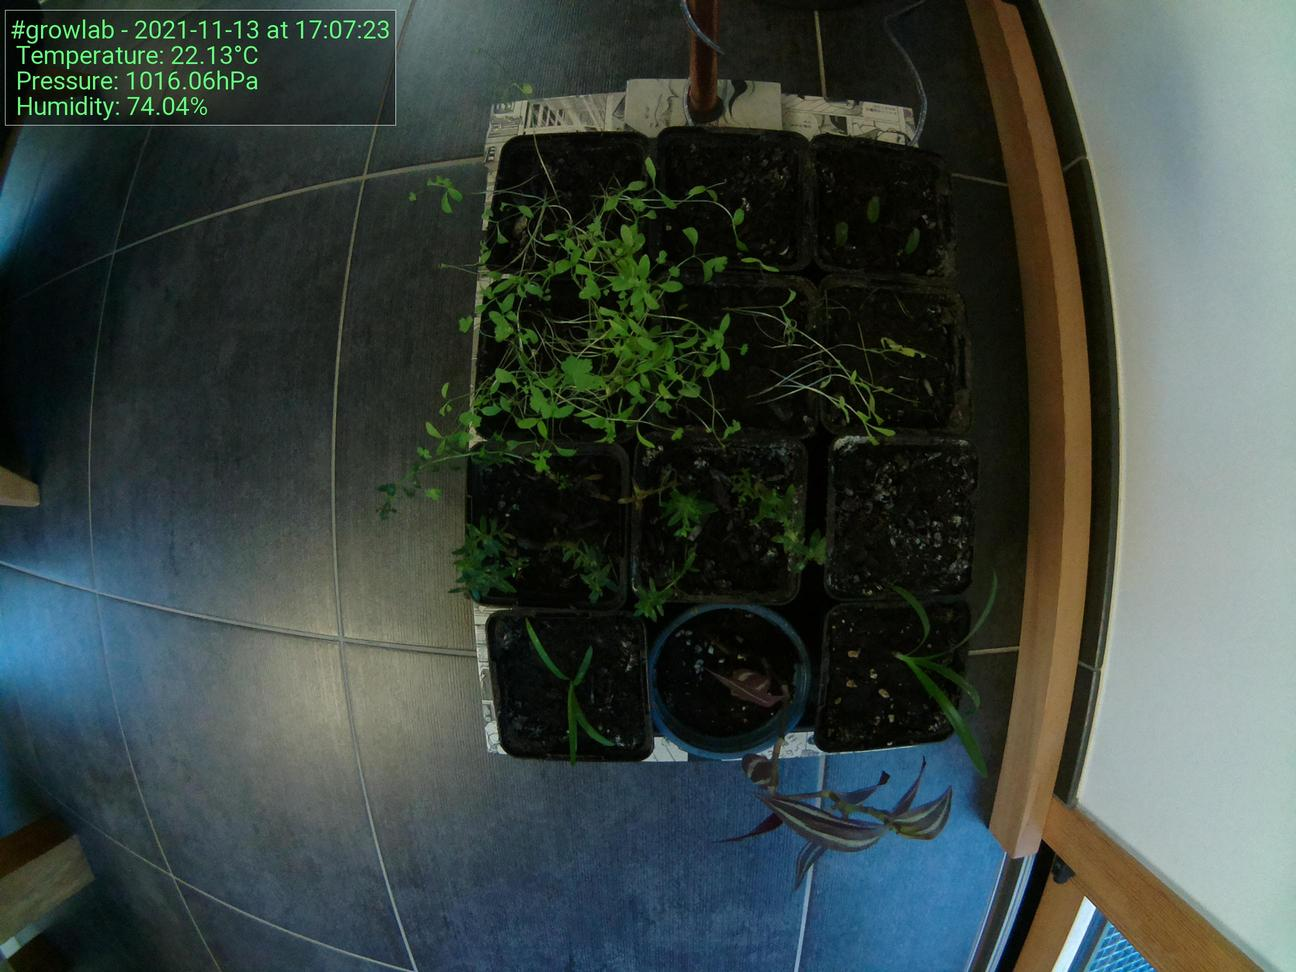
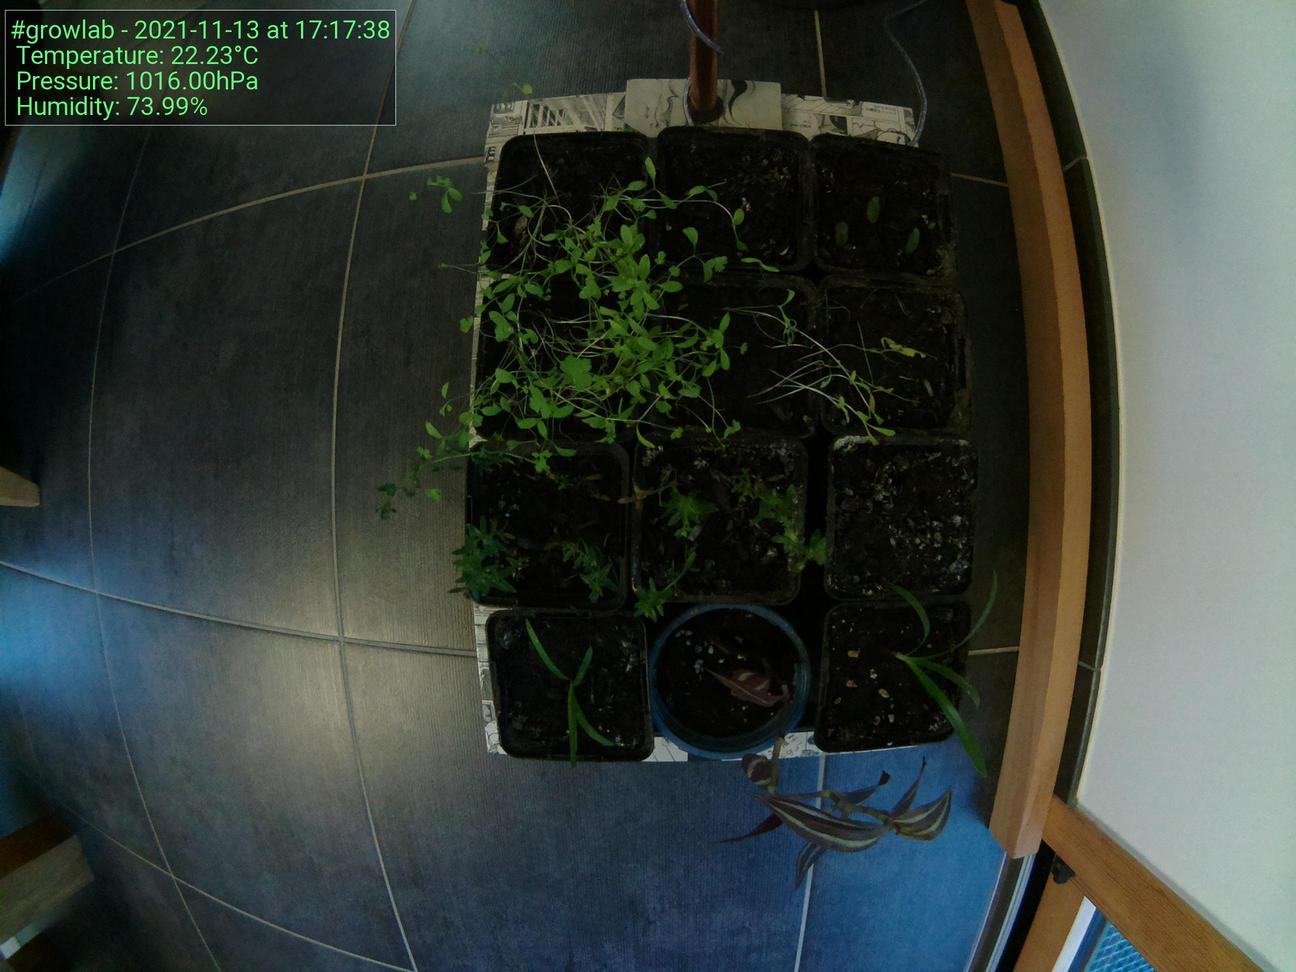
Update images at Sat 13 Nov 17:17:47 CET 2021

diff --git a/docs/index.html b/docs/index.html
@@ -52,19 +52,19 @@
                             </tr>
                             <tr>
                                 <td>Time</td>
-                                <td>17:07:23</td>
+                                <td>17:17:38</td>
                             </tr>
                             <tr>
                                 <td>Temperature</td>
-                                <td>22.13°C</td>
+                                <td>22.23°C</td>
                             </tr>
                             <tr>
                                 <td>Humidity</td>
-                                <td>74.04%</td>
+                                <td>73.99%</td>
                             </tr>
                             <tr>
                                 <td>Pressure</td>
-                                <td>1016.06hPa</td>
+                                <td>1016.00hPa</td>
                             </tr>
                         </tbody>
                     </table>
@@ -72,7 +72,7 @@
 
                 <h5>Latest image</h5>
                 <div style="width: 85%;">
-                            <img class="figure-img img-fluid rounded" src="./preview.jpg?uid=1636819652.2376642">
+                            <img class="figure-img img-fluid rounded" src="./preview.jpg?uid=1636820266.8354275">
                 </div>
             </div>
         </div>
